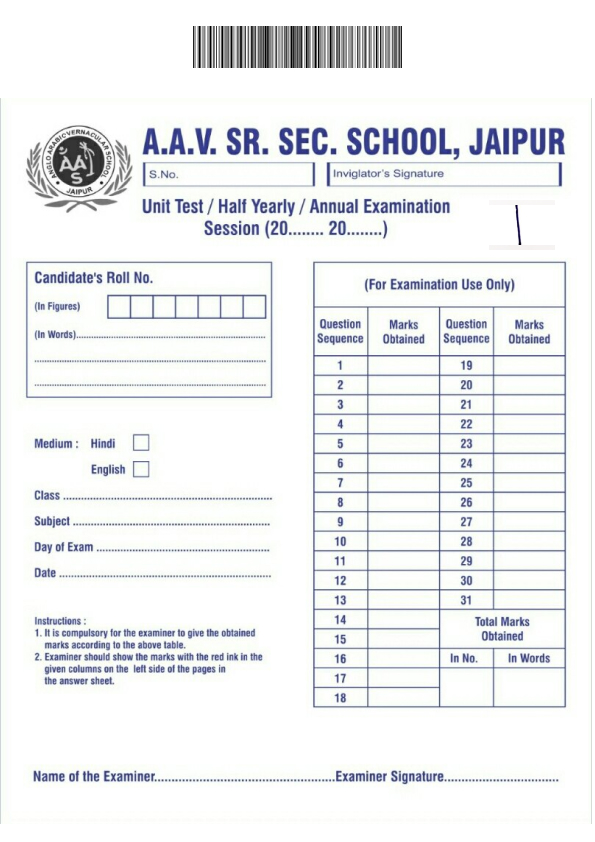
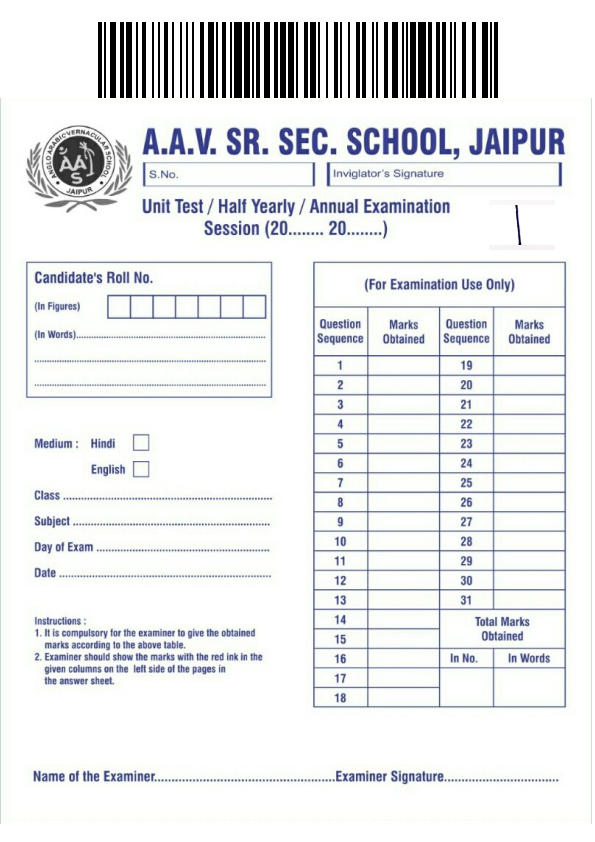
fixed barcode issue

Changed region(s): [[0.1513, 0.0, 0.8471, 0.1235]]

diff --git a/backend/main.py b/backend/main.py
@@ -68,7 +68,7 @@ def crop_marks(image_path):
 
 def crop_barcode(image_path):
     original_image = Image.open(image_path)
-    cropped_image = original_image.crop((191-10, 26-10, 191+213+10, 26+42+10))
+    cropped_image = original_image.crop((98-10, 22-10, 98+400+10, 22+76+10))
     cropped_image.save(f'{add_file_name(image_path, "_cropped_barcode")}')
 
 
